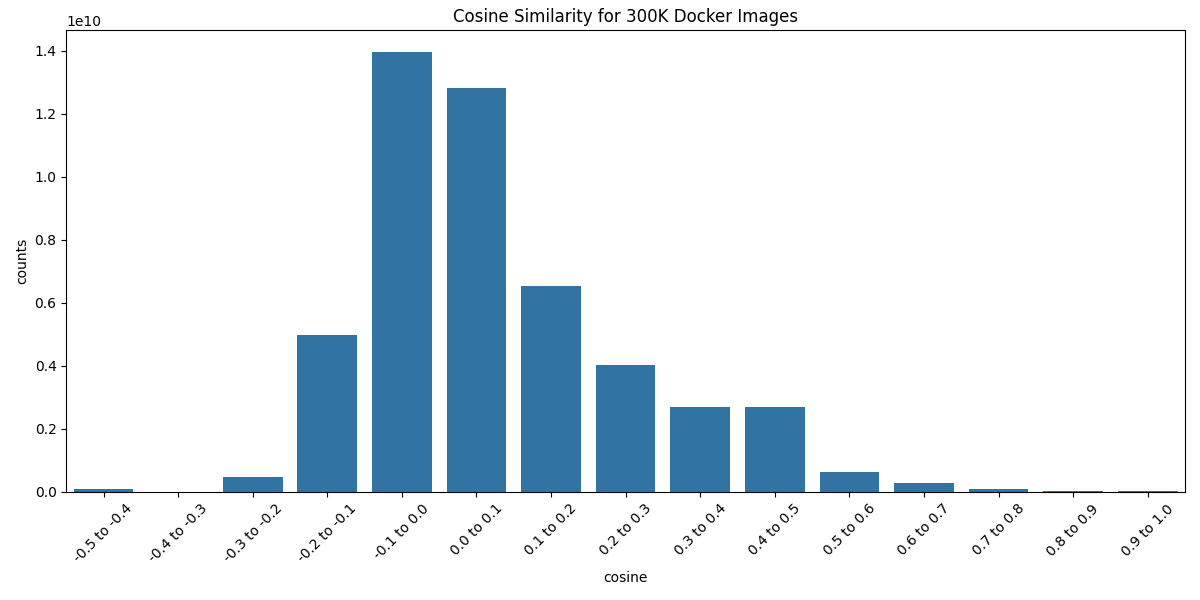
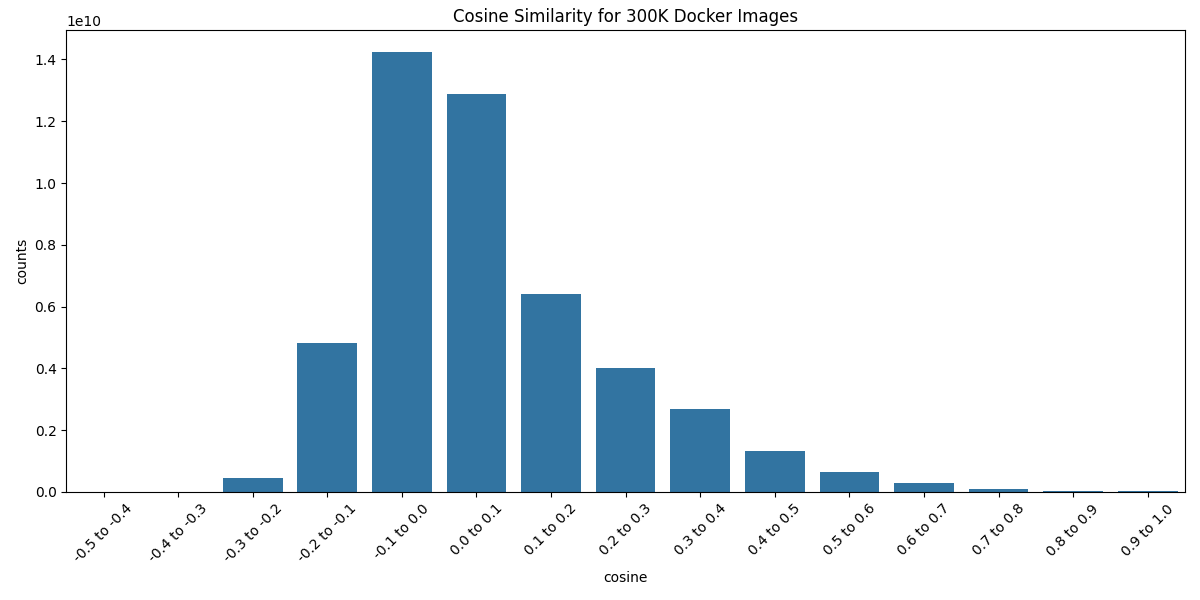
update layer and image similarity

diff --git a/experiments/dockerfile/scripts/image_similarity.py b/experiments/dockerfile/scripts/image_similarity.py
@@ -6,6 +6,7 @@ import os
 import sys
 from top2vec import Top2Vec
 import seaborn as sns
+import seaborn as sns
 import matplotlib.pyplot as plt
 from sklearn.metrics.pairwise import cosine_similarity
 
@@ -45,18 +46,21 @@ def main():
         sys.exit(f"Model path {model_path} does not exist.")
     model = Top2Vec.load(model_path)
 
-    # Note that we have similarity on the level of the image here -
-    # is that enough?
+    # Note that we have similarity on the level of the image here
     sim = cosine_similarity(model.document_vectors)
     sims = pandas.DataFrame(sim)
 
+    # model.document_vectors.shape
+    # This is the number of images
+    # (309317, 300)
+
     # minimum should be -1
     # sims.min().min()
-    # -0.4902965
+    # -0.5011855
 
     # max should be 1
     # sims.max().max()
-    # ~1
+    # 1.0000006
 
     range_0 = (
         sims.apply(
@@ -142,23 +146,22 @@ def main():
     )
     print(f"{range_14} are in range 0.9 to 1.0")
 
-    # 80831138.0 are in range -0.5 to -0.4
-    # 9216403.0 are in range -0.4 to -0.3
-    # 467560377.0 are in range -0.3 to -0.2
-    # 4964294315.0 are in range -0.2 to -0.1
-    # 13955436711.0 are in range -0.1 to -0.0
-    # 12828532067.0 are in range 0.0 to 0.1
-    # 6538628372.0 are in range 0.1 to 0.2
-    # 4021759081.0 are in range 0.2 to 0.3
-    # 2692401860.0 are in range 0.3 to 0.4
-    # 2692401860.0 are in range 0.4 to 0.5
-    # 622561247.0 are in range 0.5 to 0.6
-    # 280576131.0 are in range 0.6 to 0.7
-    # 98765791.0 are in range 0.7 to 0.8
-    # 31457471.0 are in range 0.8 to 0.9
-    # 10346109.5 are in range 0.9 to 1.0
+    # 26580.0 are in range -0.5 to -0.4
+    # 10214756.0 are in range -0.4 to -0.3
+    # 434408772.0 are in range -0.3 to -0.1
+    # 4817538814.0 are in range -0.2 to -0.1
+    # 14237460310.0 are in range -0.1 to 0.0
+    # 12876001621.0 are in range 0.0 to 0.1
+    # 6396681060.0 are in range 0.1 to 0.2
+    # 4004250693.0 are in range 0.2 to 0.3
+    # 2690671058.0 are in range 0.3 to 0.4
+    # 2690671058.0 are in range 0.4 to 0.5
+    # 632519754.0 are in range 0.5 to 0.6
+    # 283613155.0 are in range 0.6 to 0.7
+    # 100464254.0 are in range 0.7 to 0.8
+    # 32083760.0 are in range 0.8 to 0.9
+    # 10451894.5 are in range 0.9 to 1.0
 
-    # ranges = [80831138, 9216403, 467560377, 4964294315, 13955436711, 12828532067,6538628372,4021759081,2692401860,2692401860,622561247,280576131,98765791,31457471,10346109]
     ranges = [
         range_0,
         range_1,
@@ -198,6 +201,9 @@ def main():
     df["counts"] = ranges
     df["cosine"] = y
 
+    df.to_csv(
+        os.path.join(here, "data", "dockerfile", "image-similarity-histogram.csv")
+    )
     outfile = os.path.join(here, "img", "image-similarity-histogram.png")
     plt.figure(figsize=(12, 6))
     sns.barplot(df, y="counts", x="cosine")

diff --git a/experiments/dockerfile/scripts/layer_similarity.py b/experiments/dockerfile/scripts/layer_similarity.py
@@ -23,16 +23,13 @@ def get_parser():
             root,
             "data",
             "dockerfile",
-            "top2vec-with-doc2vec-image-tokens-learn.model",
+            "top2vec-with-top2vec-unique-layers-learn.model",
         ),
     )
     return parser
 
 
 def count_values_in_range(series, range_min, range_max):
-    # TODO double check this isn't counting the values, just count of one
-    # TODO need an efficient way to calculate similarity of 6 million layers
-    # TODO can we instead find duplicates first?
     return series.between(left=range_min, right=range_max).sum()
 
 
@@ -51,10 +48,10 @@ def main():
 
     # This is similarity on the level of layers
     # model.document_vectors.shape
-    #  (597591, 300)
+    #  (582391, 300)
     model.document_vectors.shape
     chunk_size = 10000
-    matrix_len = model.document_vectors.shape[0]  # Not sparse numpy.ndarray
+    matrix_len = model.document_vectors.shape[0]
 
     def similarity_cosine_by_chunk(model, start, end):
         matrix_len = model.document_vectors.shape[0]  # Not sparse numpy.ndarray
@@ -83,22 +80,12 @@ def main():
     # Handle cosine_similarity_chunk  ( Write it to file_timestamp and close the file )
     # Do not open the same file again or you may end up with out of memory after few chunks
     df.to_csv(os.path.join(root, "data", "dockerfile", "layer-sims-counts.csv"))
-
-    # minimum should be -1
-    # sims.min().min()
-    # -0.4902965
-
-    # max should be 1
-    # sims.max().max()
-    # ~1
-    # make plot!
-
     outfile = os.path.join(root, "img", "layer-similarity-histogram.png")
     plt.figure(figsize=(12, 6))
     sns.barplot(df, y="counts", x="cosine")
     plt.xticks(rotation=45)
     plt.tight_layout()
-    plt.title("Cosine Similarity for 597K Unique Image Layers")
+    plt.title("Cosine Similarity for 582K Unique Image Layers")
     plt.savefig(outfile)
     plt.clf()
 

diff --git a/experiments/dockerfile/README.md b/experiments/dockerfile/README.md
@@ -301,7 +301,23 @@ There isn't a good guideline for this. What is limit? We can see the number of l
 
 See [here](https://docs.docker.com/build/building/best-practices/#apt-get).
 
+```
+import re
+apt_get_count = 0
+apt_get_with_install = 0
+with open("dockerfile-corpus.txt", 'r') as fd:
+    for i, line in enumerate(fd.readlines()):
+       print(f"{i} of 6535425", end="\r")
+       if "apt" in line and "get" in line:
+           apt_get_count += 1
+           if "install" in line:
+               apt_get_with_install += 1
 
+print(f"{apt_get_with_install/apt_get_count} of layers do apt get with install")
+# 0.9429716660593467 of layers do apt get with install
+```
+
+That's really high!
 
 ### apt get with a clean / autoremove
 
